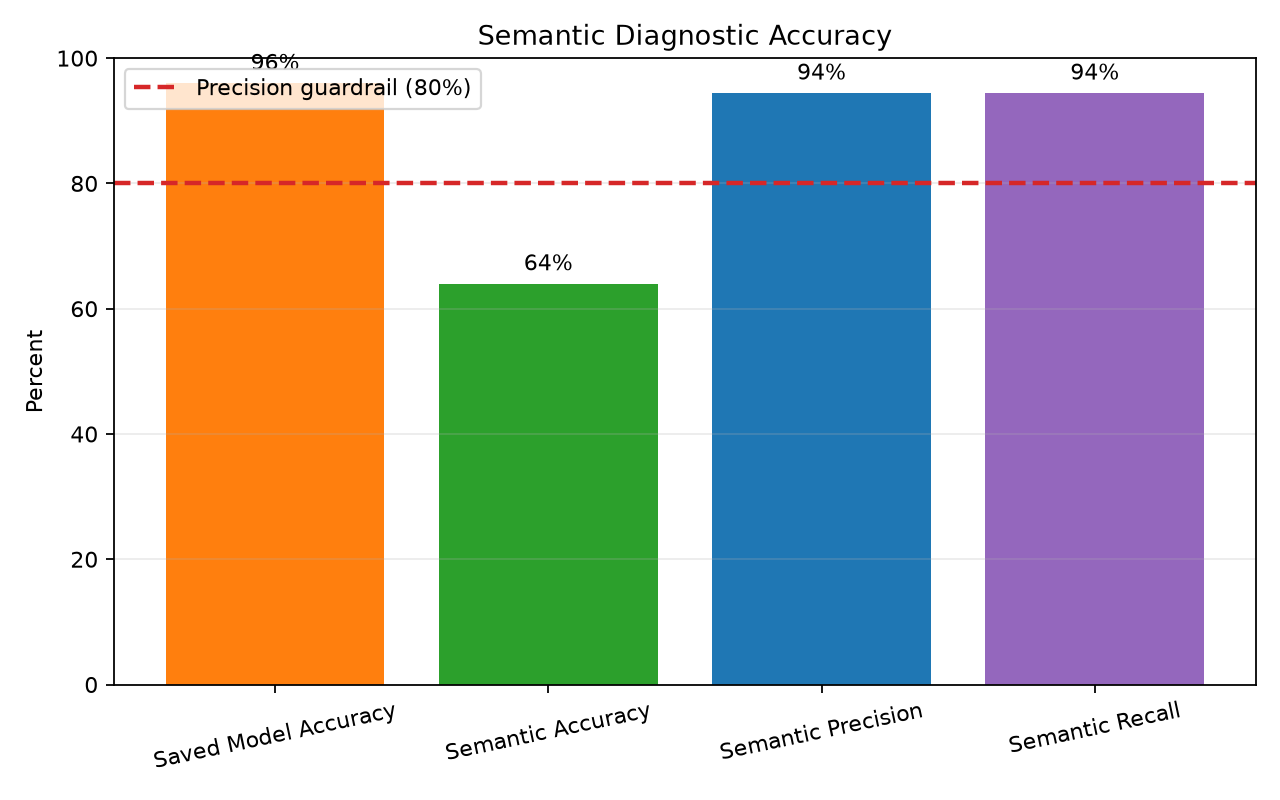
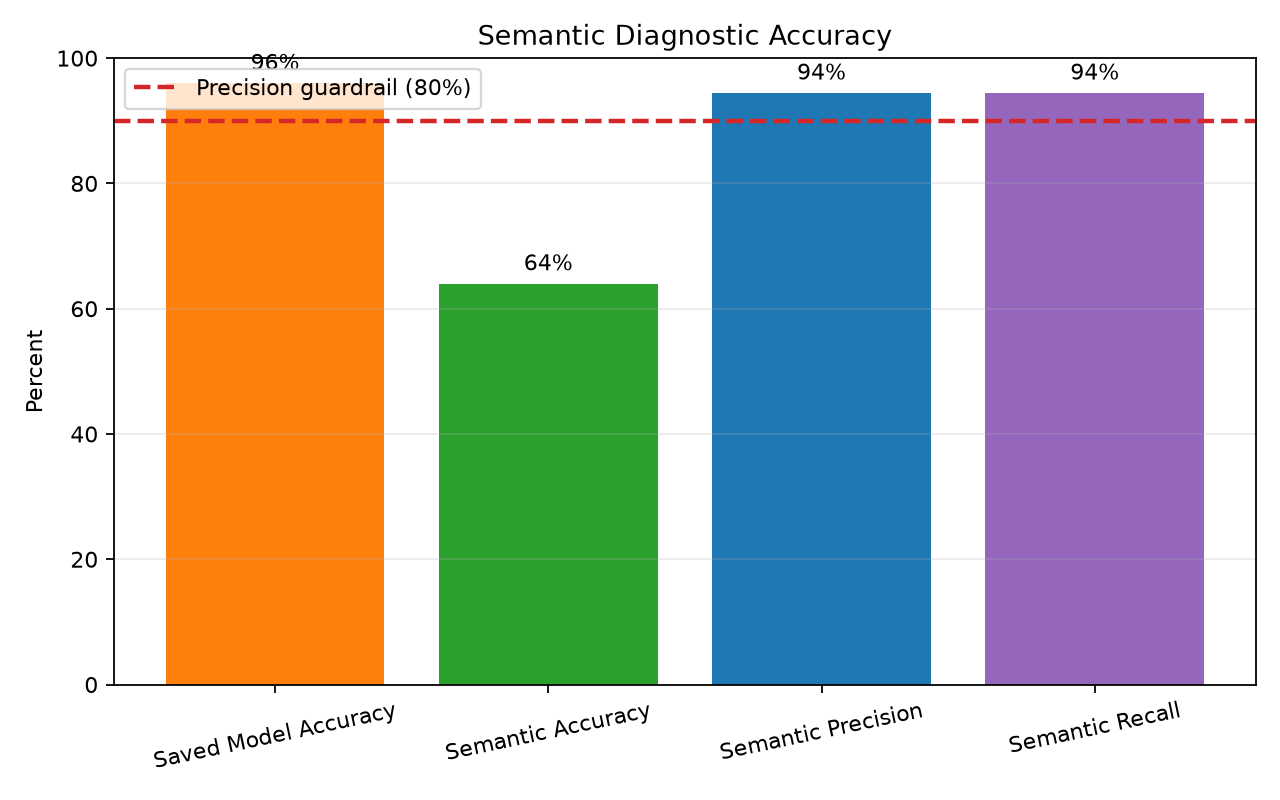
v2.2.4.1 Clean up release notes and update grading guardrail for the accuracy chart.

Changed region(s): [[0.0938, 0.2188, 0.9688, 0.25], [0.0938, 0.125, 0.9688, 0.1562]]

diff --git a/scripts/release_metrics.py b/scripts/release_metrics.py
@@ -55,23 +55,16 @@ def render_release_metrics(metrics_dir: Path, release_label: str = "Current") ->
             f"Top covered concepts: `{_coverage_names(question_coverage, 'top_concepts', limit=12)}`",
             f"Semantic answer evaluation count: `{semantic.get('semantic_example_count', 0)}`",
             "",
-            "Training curve: `training_performance.png`",
-            "Curated exact-letter accuracy (A/B/C/D/F): `curated_grade_accuracy.png`",
-            "`semantic_similarity` diagnostic chart: `semantic_accuracy.png`",
-            "Question intent coverage chart: `question_intent_coverage.png`",
-            "Certification coverage chart: `question_certification_coverage.png`",
-            "Curated failure analysis: `curated_failure_report.md`",
-            "Curated rubric review: `curated_rubric_review.md`",
+            # "Training curve: `training_performance.png`",
+            # "`semantic_similarity` diagnostic chart: `semantic_accuracy.png`",
+            # "Question intent coverage chart: `question_intent_coverage.png`",
+            # "Certification coverage chart: `question_certification_coverage.png`",
+            # "Curated failure analysis: `curated_failure_report.md`",
+            # "Curated rubric review: `curated_rubric_review.md`",
             "",
             "Semantic precision is the release guardrail for the `semantic_similarity` model.",
             "Question fidelity is the release guardrail for generated-question concept and exam-style fidelity.",
             "Answer-scoring metrics come from the existing generated answer and curated answer benchmarks; question expansion quality is tracked separately by Question Fidelity.",
-            "Semantic accuracy requires exact A/B/C/D/F agreement with curated labels.",
-            "Precision and recall remain accepted-answer diagnostics: A/B/C/D are accepted answers and F is rejected.",
-            "",
-            '<img src="../release/' + release_file_stem + '_question_intent_coverage.png" alt="Question intent coverage" width="960">',
-            "",
-            '<img src="../release/' + release_file_stem + '_question_certification_coverage.png" alt="Certification coverage" width="720">',
         ]
     ) + "\n"
 

diff --git a/scripts/semantic_similarity_evaluation.py b/scripts/semantic_similarity_evaluation.py
@@ -72,7 +72,7 @@ def plot_semantic_accuracy(
         colors = ["#ff7f0e", *colors]
     figure, axis = plt.subplots(figsize=(8, 5))
     bars = axis.bar(values.keys(), values.values(), color=colors)
-    axis.axhline(80, color="#d62728", linestyle="--", linewidth=2, label="Precision guardrail (80%)")
+    axis.axhline(90, color="#d62728", linestyle="--", linewidth=2, label="Precision guardrail (80%)")
     axis.set_title("Semantic Diagnostic Accuracy")
     axis.set_ylabel("Percent")
     axis.set_ylim(0, 100)

diff --git a/scripts/plot_training_history.py b/scripts/plot_training_history.py
@@ -70,7 +70,6 @@ def _plot_curated_accuracy(frame: pd.DataFrame, output_path: Path) -> None:
     axis.axhline(90, color="#d62728", linestyle="--", linewidth=2, label="Release target (90%)")
     axis.set_title("Curated Exact-Letter Accuracy During Training")
     axis.set_xlabel("Training epoch")
-    axis.set_ylabel("Exact-letter accuracy (A/B/C/D/F)")
     axis.set_xscale("log")
     axis.set_xticks(frame.index)
     axis.set_xticklabels([str(int(epoch)) for epoch in frame.index])

diff --git a/tests/test_release_metrics.py b/tests/test_release_metrics.py
@@ -200,7 +200,6 @@ def test_release_metrics_tracks_curated_and_semantic_accuracy(tmp_path: Path):
     assert "| Release | Semantic Accuracy | Semantic Precision | Semantic Recall | Question Fidelity |" in markdown
     assert "Saved model grade-band accuracy" not in markdown
     assert "Training accuracy" not in markdown
-    assert "Semantic accuracy requires exact A/B/C/D/F agreement" in markdown
 
 
 def test_release_metrics_updates_generated_release_notes_block(tmp_path: Path):

diff --git a/docs/RELEASE_NOTES.md b/docs/RELEASE_NOTES.md
@@ -23,6 +23,7 @@
 | v2.1.1  |            68.00% |             84.62% |          68.75% |            96.80% |
 | v2.1.2  |            83.33% |             90.00% |          90.00% |            96.00% |
 | v2.2.4  |            64.00% |             94.44% |          94.44% |            95.12% |
+
 For v2.1.1, the answer-scoring metrics are expected to match v1.5.4 because the generated answer benchmark and curated answer benchmark did not change. The regenerated Developer Associate question expansion is measured by the new Question Fidelity metric.
 
 For v2.1.2, generated Developer Associate source questions remove multiple-choice-only instructions from freeform prompts. The Developer Associate source metadata expanded from 5 to 12 source rows and now produces 12 generated Developer questions in the app question set. Feedback submissions now capture the expected letter grade plus optional freeform grader context, and supplemental generated feedback rows cover question-rephrasing answers.
@@ -32,7 +33,7 @@ For v2.1.1 - v2.1.2,
 I noticed a huge update to Semantic Accuracy and Semantic Recall after the latest update, but Training Accuracy is still in the 60s.
 Also, I am worried about why Saved Accuracy is so much higher than Semantic Accuracy.
 
-For v2.2.0 design planning, comparison-style freeform questions should ask learners to explain why the best service or feature beats the strongest near-miss distractor. The design is documented in [V2_2_ENHANCED_SERVICES_COMPARISON_DESIGN.md](V2_2_ENHANCED_SERVICES_COMPARISON_DESIGN.md). The release metrics run now generates domain, intent, and certification question coverage charts for the release notes.
+For v2.2.0 design planning, comparison-style freeform questions should ask learners to explain why the best service or feature beats the strongest near-miss distractor. The design is documented in [V2_2_ENHANCED_SERVICES_COMPARISON_DESIGN.md](V2_ENHANCED_SERVICES_COMPARISON_DESIGN.md). The release metrics run now generates domain, intent, and certification question coverage charts for the release notes.
 
 For v2.2.4, the maintained release metrics table is `Release`, `Semantic Accuracy`, `Semantic Precision`, `Semantic Recall`, and `Question Fidelity`.
 
@@ -55,9 +56,7 @@ For v2.2.4, the maintained release metrics table is `Release`, `Semantic Accurac
 Saved model answer form: `long`
 Saved model calibration count: `21`
 Question fidelity model: `question_fidelity_heuristic_v1`
-Question fidelity sample count: `34`
 Developer source question count: `34`
-Developer generated question count: `34`
 App question count: `114`
 Question coverage domain count: `15`
 Question coverage concept count: `276`
@@ -65,18 +64,10 @@ Question coverage intent count: `5`
 Top covered concepts: `rules, Amazon S3, cost optimization, Amazon RDS, replication, low latency, serverless, health checks, AWS Organizations, SCPs, DynamoDB, Secrets Manager`
 Semantic answer evaluation count: `25`
 
-Training curve: `training_performance.png`
-Curated exact-letter accuracy (A/B/C/D/F): `curated_grade_accuracy.png`
-`semantic_similarity` diagnostic chart: `semantic_accuracy.png`
-Question intent coverage chart: `question_intent_coverage.png`
-Certification coverage chart: `question_certification_coverage.png`
-Curated failure analysis: `curated_failure_report.md`
-Curated rubric review: `curated_rubric_review.md`
 
 Semantic precision is the release guardrail for the `semantic_similarity` model.
 Question fidelity is the release guardrail for generated-question concept and exam-style fidelity.
 Answer-scoring metrics come from the existing generated answer and curated answer benchmarks; question expansion quality is tracked separately by Question Fidelity.
-Semantic accuracy requires exact A/B/C/D/F agreement with curated labels.
 Precision and recall remain accepted-answer diagnostics: A/B/C/D are accepted answers and F is rejected.
 
 <img src="../release/v2.2.4_question_intent_coverage.png" alt="Question intent coverage" width="960">
